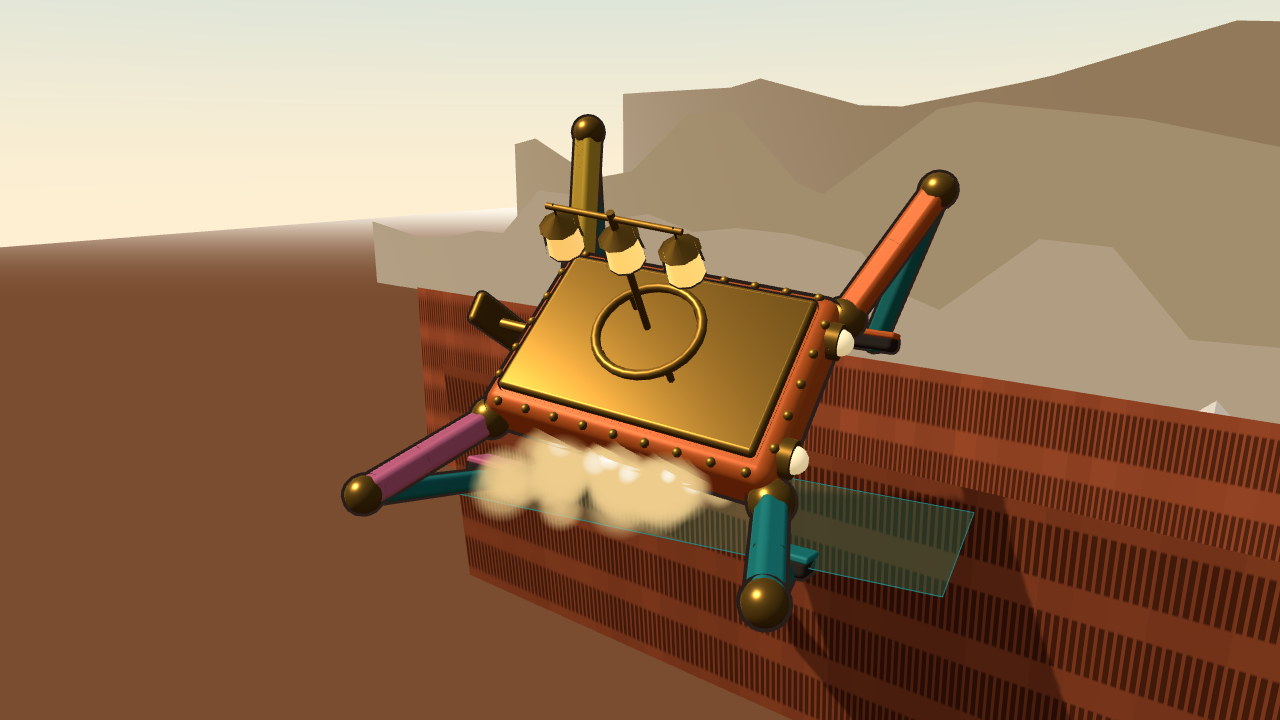
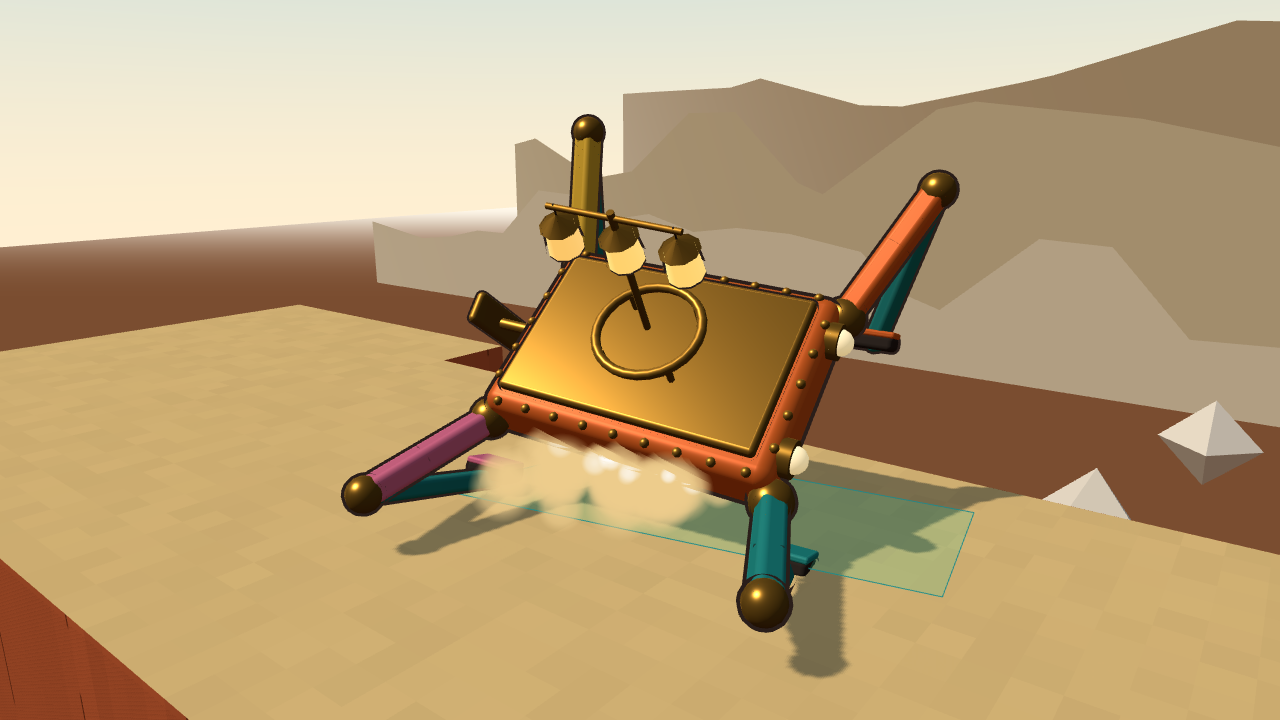
Draw the strip as paper-cut mesas, add the manifest, badges and store art

diff --git a/src/render/terrain3d.js b/src/render/terrain3d.js
@@ -1,5 +1,7 @@
-// The course as clay and paper-cut mesas: a flat-shaded height-field mesh in 40 m chunks with a
-// procedural pattern per surface, painted checkpoint stripes, a goal arch and a water plane.
+// The course as clay and paper-cut mesas. Every ground sample of the height field is a flat
+// 0.5 m top with vertical walls wherever a neighbour is lower (a terrace, a stone's rim, the
+// edge of the strip), in 40 m chunks with a pattern per surface, painted checkpoint stripes,
+// a goal arch, the canyon floor and a water plane for the tides.
 import * as THREE from 'three';
 import { S } from '../sim/constants.js';
 import { CELL, HALF_W, NZ, VOID_DEPTH } from '../sim/terrain.js';
@@ -14,29 +16,29 @@ const SURF_COLOR = {
   [S.GRATE]: new THREE.Color(PALETTE.metal),
   [S.SPRING]: new THREE.Color(PALETTE.spring),
   [S.LAVA]: new THREE.Color(PALETTE.lava),
-  [S.VOID]: new THREE.Color(0x3a2a24),
   [S.PLATFORM]: new THREE.Color(PALETTE.metal),
-  [S.CRUMBLE]: new THREE.Color(PALETTE.crumble),
   [S.CONVEYOR]: new THREE.Color(0x5a6168),
   [S.SHORE]: new THREE.Color(PALETTE.shore),
   [S.STONE]: new THREE.Color(PALETTE.stone),
 };
 const WALL = new THREE.Color(PALETTE.terracotta);
+const LAVA_WALL = new THREE.Color(0x6b2a1a);
 const tmpC = new THREE.Color();
+const HALF = CELL / 2;
+const TERRACE = 0.6; // a drop this big is a paper-cut step; less is a slope
 
-/** Build the course's static meshes. Returns a group plus per-frame hooks. */
 export function buildTerrain(course, quality) {
   const group = new THREE.Group();
-  const t = course.terrain;
   const tex = makeSurfaceTexture();
-  const mat = new THREE.MeshLambertMaterial({ vertexColors: true, map: tex, flatShading: true });
+  const mat = new THREE.MeshLambertMaterial({ vertexColors: true, map: tex, flatShading: true, side: THREE.DoubleSide });
   const chunks = [];
   const n = Math.ceil(course.length / CHUNK);
   for (let c = 0; c < n; c++) {
     const geo = chunkGeometry(course, c * CHUNK, Math.min(course.length, (c + 1) * CHUNK));
+    if (!geo) continue;
     const mesh = new THREE.Mesh(geo, mat);
     mesh.receiveShadow = quality !== 'low';
-    mesh.castShadow = false;
+    mesh.castShadow = quality === 'high';
     group.add(mesh);
     chunks.push(mesh);
   }
@@ -45,12 +47,10 @@ export function buildTerrain(course, quality) {
   floorGeo.rotateX(-Math.PI / 2);
   const floor = new THREE.Mesh(floorGeo, new THREE.MeshLambertMaterial({ color: 0x8a5a3c }));
   floor.position.set(course.length / 2, VOID_DEPTH - 1, 0);
-  floor.receiveShadow = false;
   group.add(floor);
   // Checkpoint arches and the goal.
   for (const cp of course.checkpoints) group.add(makeArch(cp.x, cp.z, cp.y, false));
   group.add(makeArch(course.goalX, 0, elevAt(course, course.goalX, 0), true));
-  // Water (tides) if the course has a shore.
   let water = null;
   if (course.water) {
     const wg = new THREE.PlaneGeometry(course.length + 40, 60, 1, 1);
@@ -68,8 +68,9 @@ export function buildTerrain(course, quality) {
       for (const m of chunks) m.geometry.dispose();
       mat.dispose();
       tex.dispose();
+      floorGeo.dispose();
       group.traverse((o) => {
-        if (o.geometry && !chunks.includes(o)) o.geometry.dispose();
+        if (o.geometry && !chunks.includes(o) && o !== floor) o.geometry.dispose();
       });
     },
   };
@@ -82,124 +83,98 @@ function elevAt(course, x, z) {
   return t.h[ix * t.nz + iz];
 }
 
-/** Non-indexed, per-cell colours and tile UVs: flat shading and a pattern per surface. */
+/** A growable triangle list. */
+function makeBuffer() {
+  const b = { pos: [], col: [], uv: [] };
+  b.push = (x, y, z, c, u, v) => {
+    b.pos.push(x, y, z);
+    b.col.push(c.r, c.g, c.b);
+    b.uv.push(u, v);
+  };
+  return b;
+}
+
+/** Cell-centred samples: a flat top per ground sample, walls down to lower neighbours. */
 function chunkGeometry(course, x0, x1) {
   const t = course.terrain;
   const ix0 = Math.round(x0 / CELL);
-  const ix1 = Math.min(t.nx - 1, Math.round(x1 / CELL));
-  const cells = (ix1 - ix0) * (NZ - 1);
-  const pos = new Float32Array(cells * 18);
-  const col = new Float32Array(cells * 18);
-  const uv = new Float32Array(cells * 12);
-  let p = 0;
-  let u = 0;
-  const seed = course.terrain.nx;
+  const ix1 = Math.min(t.nx, Math.round(x1 / CELL));
+  const b = makeBuffer();
+  const seed = t.nx;
+  const ground = (ix, iz) => {
+    if (ix < 0 || iz < 0 || ix >= t.nx || iz >= t.nz) return VOID_DEPTH - 1;
+    const i = ix * t.nz + iz;
+    const s = t.s[i];
+    if (s === S.VOID || s === S.CRUMBLE) return VOID_DEPTH - 1;
+    return t.h[i];
+  };
   for (let ix = ix0; ix < ix1; ix++) {
-    for (let iz = 0; iz < NZ - 1; iz++) {
-      const i00 = ix * t.nz + iz;
-      const i10 = i00 + t.nz;
-      const i01 = i00 + 1;
-      const i11 = i10 + 1;
-      let s = t.s[i00];
-      let h00 = t.h[i00];
-      let h10 = t.h[i10];
-      let h01 = t.h[i01];
-      let h11 = t.h[i11];
-      // Crumbling slabs are separate meshes: the ground under them is the pit.
-      if (s === S.CRUMBLE) {
-        s = S.VOID;
-        h00 = h10 = h01 = h11 = VOID_DEPTH;
-      }
-      // the cell's own surface decides its colour; a step down to a pit is painted as a wall
-      const base = SURF_COLOR[s] ?? SURF_COLOR[S.CLAY];
+    for (let iz = 0; iz < NZ; iz++) {
+      const i = ix * t.nz + iz;
+      const s = t.s[i];
+      if (s === S.VOID || s === S.CRUMBLE) continue;
+      const h = t.h[i];
       const x = ix * CELL;
       const z = iz * CELL - HALF_W;
-      const drop = Math.max(h00, h10, h01, h11) - Math.min(h00, h10, h01, h11);
-      const wall = drop > 1.2;
-      tmpC.copy(wall ? WALL : base);
-      // subtle hand-painted variation
+      const base = SURF_COLOR[s] ?? SURF_COLOR[S.CLAY];
       const v = ((Math.sin(ix * 12.9898 + iz * 78.233 + seed) * 43758.5453) % 1 + 1) % 1;
-      const k = 0.92 + v * 0.14;
-      if (s === S.VOID) tmpC.multiplyScalar(0.55 + v * 0.1);
-      else tmpC.multiplyScalar(k);
-      const tile = wall ? 15 : Math.min(15, s);
+      tmpC.copy(base).multiplyScalar(0.95 + v * 0.08);
+      const tile = Math.min(14, s);
       const tu = (tile % 4) / 4;
       const tv = Math.floor(tile / 4) / 4;
-      // two triangles: (x,z0) (x+1,z0) (x+1,z1) and (x,z0) (x+1,z1) (x,z1)
-      const quad = [
-        [x, h00, z, tu, tv],
-        [x + CELL, h10, z, tu + 0.25, tv],
-        [x + CELL, h11, z + CELL, tu + 0.25, tv + 0.25],
-        [x, h00, z, tu, tv],
-        [x + CELL, h11, z + CELL, tu + 0.25, tv + 0.25],
-        [x, h01, z + CELL, tu, tv + 0.25],
+      // Corners blend with gently different neighbours (smooth hills) and stay flat at a terrace or a rim.
+      const corner = (dx, dz) => {
+        const a = ground(ix, iz);
+        const bb = ground(ix + dx, iz);
+        const c = ground(ix, iz + dz);
+        const d = ground(ix + dx, iz + dz);
+        const lo = Math.min(a, bb, c, d);
+        const hi = Math.max(a, bb, c, d);
+        if (lo <= VOID_DEPTH || hi - lo > TERRACE) return h;
+        return (a + bb + c + d) / 4;
+      };
+      const hmm = corner(-1, -1);
+      const hpm = corner(1, -1);
+      const hpp = corner(1, 1);
+      const hmp = corner(-1, 1);
+      // top (counter-clockwise seen from above)
+      b.push(x - HALF, hmm, z - HALF, tmpC, tu, tv);
+      b.push(x + HALF, hpp, z + HALF, tmpC, tu + 0.25, tv + 0.25);
+      b.push(x + HALF, hpm, z - HALF, tmpC, tu + 0.25, tv);
+      b.push(x - HALF, hmm, z - HALF, tmpC, tu, tv);
+      b.push(x - HALF, hmp, z + HALF, tmpC, tu, tv + 0.25);
+      b.push(x + HALF, hpp, z + HALF, tmpC, tu + 0.25, tv + 0.25);
+      // walls toward neighbours that are a terrace lower or missing
+      const wallColor = s === S.LAVA ? LAVA_WALL : WALL;
+      const sides = [
+        [ix + 1, iz, x + HALF, z - HALF, x + HALF, z + HALF, hpm, hpp],
+        [ix - 1, iz, x - HALF, z + HALF, x - HALF, z - HALF, hmp, hmm],
+        [ix, iz + 1, x + HALF, z + HALF, x - HALF, z + HALF, hpp, hmp],
+        [ix, iz - 1, x - HALF, z - HALF, x + HALF, z - HALF, hmm, hpm],
       ];
-      for (const [vx, vy, vz, a, b] of quad) {
-        pos[p] = vx;
-        pos[p + 1] = vy;
-        pos[p + 2] = vz;
-        col[p] = tmpC.r;
-        col[p + 1] = tmpC.g;
-        col[p + 2] = tmpC.b;
-        p += 3;
-        uv[u] = a;
-        uv[u + 1] = b;
-        u += 2;
+      for (const [nx, nz, ax, az, bx, bz, ha, hb] of sides) {
+        const nh = ground(nx, nz);
+        if (nh > VOID_DEPTH && h - nh <= TERRACE) continue;
+        const bottom = Math.max(VOID_DEPTH - 1, nh);
+        const shade = 0.86 + v * 0.14;
+        tmpC.copy(wallColor).multiplyScalar(shade);
+        const wv = (hh) => 0.75 + 0.02 + 0.21 * Math.max(0, Math.min(1, (hh - (VOID_DEPTH - 1)) / 8));
+        const wu0 = 0.75 + 0.02 + 0.21 * ((((ax + az) / 3) % 1) + 1) % 1;
+        const wu1 = wu0 + 0.1;
+        b.push(ax, ha, az, tmpC, wu0, wv(ha));
+        b.push(ax, bottom, az, tmpC, wu0, wv(bottom));
+        b.push(bx, bottom, bz, tmpC, wu1, wv(bottom));
+        b.push(ax, ha, az, tmpC, wu0, wv(ha));
+        b.push(bx, bottom, bz, tmpC, wu1, wv(bottom));
+        b.push(bx, hb, bz, tmpC, wu1, wv(hb));
       }
     }
   }
-  // Skirts: the strip is a raised mesa, so both long edges drop to the canyon floor.
-  const skirtCols = ix1 - ix0;
-  const spos = new Float32Array(skirtCols * 2 * 18);
-  const scol = new Float32Array(skirtCols * 2 * 18);
-  const suv = new Float32Array(skirtCols * 2 * 12);
-  let sp = 0;
-  let su = 0;
-  for (let ix = ix0; ix < ix1; ix++) {
-    for (const side of [0, NZ - 1]) {
-      const i0 = ix * t.nz + side;
-      const i1 = i0 + t.nz;
-      const x = ix * CELL;
-      const z = side * CELL - HALF_W;
-      const top0 = t.s[i0] === S.VOID || t.s[i0] === S.CRUMBLE ? VOID_DEPTH : t.h[i0];
-      const top1 = t.s[i1] === S.VOID || t.s[i1] === S.CRUMBLE ? VOID_DEPTH : t.h[i1];
-      const v = ((Math.sin(ix * 7.13 + side * 3.1 + seed) * 43758.5453) % 1 + 1) % 1;
-      tmpC.copy(WALL).multiplyScalar(0.8 + v * 0.2);
-      const tu = 3 / 4;
-      const tv = 3 / 4;
-      const a = [x, top0, z];
-      const b = [x + CELL, top1, z];
-      const c = [x + CELL, VOID_DEPTH - 1, z];
-      const d = [x, VOID_DEPTH - 1, z];
-      const tri = side === 0 ? [a, c, b, a, d, c] : [a, b, c, a, c, d];
-      const uvs = [[tu, tv], [tu + 0.25, tv + 0.25], [tu + 0.25, tv], [tu, tv], [tu, tv + 0.25], [tu + 0.25, tv + 0.25]];
-      for (let k = 0; k < 6; k++) {
-        spos[sp] = tri[k][0];
-        spos[sp + 1] = tri[k][1];
-        spos[sp + 2] = tri[k][2];
-        scol[sp] = tmpC.r;
-        scol[sp + 1] = tmpC.g;
-        scol[sp + 2] = tmpC.b;
-        sp += 3;
-        suv[su] = uvs[k][0];
-        suv[su + 1] = uvs[k][1];
-        su += 2;
-      }
-    }
-  }
-  const allPos = new Float32Array(pos.length + spos.length);
-  allPos.set(pos);
-  allPos.set(spos, pos.length);
-  const allCol = new Float32Array(col.length + scol.length);
-  allCol.set(col);
-  allCol.set(scol, col.length);
-  const allUv = new Float32Array(uv.length + suv.length);
-  allUv.set(uv);
-  allUv.set(suv, uv.length);
+  if (!b.pos.length) return null;
   const geo = new THREE.BufferGeometry();
-  geo.setAttribute('position', new THREE.BufferAttribute(allPos, 3));
-  geo.setAttribute('color', new THREE.BufferAttribute(allCol, 3));
-  geo.setAttribute('uv', new THREE.BufferAttribute(allUv, 2));
+  geo.setAttribute('position', new THREE.BufferAttribute(new Float32Array(b.pos), 3));
+  geo.setAttribute('color', new THREE.BufferAttribute(new Float32Array(b.col), 3));
+  geo.setAttribute('uv', new THREE.BufferAttribute(new Float32Array(b.uv), 2));
   geo.computeVertexNormals();
   geo.computeBoundingSphere();
   return geo;
@@ -210,24 +185,23 @@ function makeArch(x, z, y, goal) {
   const g = new THREE.Group();
   const post = new THREE.BoxGeometry(0.5, 5.2, 0.5);
   const postMat = new THREE.MeshLambertMaterial({ color: goal ? PALETTE.orange : PALETTE.brass });
+  const inkMat = new THREE.MeshLambertMaterial({ color: PALETTE.ink });
   for (const side of [-1, 1]) {
     const m = new THREE.Mesh(post, postMat);
     m.position.set(0, 2.6, side * 6.5);
     m.castShadow = true;
     g.add(m);
-    // stripes
     for (let k = 0; k < 5; k++) {
-      const band = new THREE.Mesh(new THREE.BoxGeometry(0.56, 0.4, 0.56), new THREE.MeshLambertMaterial({ color: PALETTE.ink }));
+      const band = new THREE.Mesh(new THREE.BoxGeometry(0.56, 0.4, 0.56), inkMat);
       band.position.set(0, 0.6 + k * 1.0, side * 6.5);
       g.add(band);
     }
   }
-  const lintel = new THREE.Mesh(new THREE.BoxGeometry(0.6, 0.7, 13.6), new THREE.MeshLambertMaterial({ color: goal ? PALETTE.orange : PALETTE.brass }));
+  const lintel = new THREE.Mesh(new THREE.BoxGeometry(0.6, 0.7, 13.6), postMat);
   lintel.position.set(0, 5.5, 0);
   lintel.castShadow = true;
   g.add(lintel);
   if (goal) {
-    // a paper banner with painted triangles
     const banner = new THREE.Mesh(new THREE.BoxGeometry(0.2, 1.6, 12.8), new THREE.MeshLambertMaterial({ color: PALETTE.cream }));
     banner.position.set(0, 4.2, 0);
     g.add(banner);
@@ -239,7 +213,6 @@ function makeArch(x, z, y, goal) {
       g.add(tri);
     }
   }
-  // stripes painted on the ground across the gate
   const stripe = new THREE.Mesh(new THREE.PlaneGeometry(0.8, 13), new THREE.MeshBasicMaterial({ color: goal ? PALETTE.orange : PALETTE.ink, transparent: true, opacity: 0.55, depthWrite: false }));
   stripe.rotation.x = -Math.PI / 2;
   stripe.position.set(0, 0.03, 0);

diff --git a/src/render/textures.js b/src/render/textures.js
@@ -148,12 +148,17 @@ export function makeSurfaceTexture() {
     g.strokeStyle = 'rgba(0,0,0,0.25)';
     g.strokeRect(16, 16, s - 32, s - 32);
   });
-  // 15: cliff wall: horizontal paper layers
+  // 15: cliff wall: three broad paper layers, darker toward the bottom (v=0 is the bottom)
   at(15, (s) => {
-    g.fillStyle = 'rgba(0,0,0,0.18)';
-    for (let k = 0; k < 5; k++) g.fillRect(0, k * (s / 5) + 6, s, 5);
-    g.fillStyle = 'rgba(255,255,255,0.12)';
-    for (let k = 0; k < 5; k++) g.fillRect(0, k * (s / 5), s, 3);
+    const bands = [[0, 0.3, 'rgba(0,0,0,0.3)'], [0.3, 0.62, 'rgba(0,0,0,0.14)'], [0.62, 0.9, 'rgba(0,0,0,0.02)'], [0.9, 1, 'rgba(255,255,255,0.18)']];
+    for (const [a, b, c] of bands) {
+      g.fillStyle = c;
+      g.fillRect(0, s * (1 - b), s, s * (b - a));
+    }
+    g.fillStyle = 'rgba(255,255,255,0.14)';
+    g.fillRect(0, s * (1 - 0.3), s, 3);
+    g.fillRect(0, s * (1 - 0.62), s, 3);
+    g.fillRect(0, s * (1 - 0.9), s, 3);
   });
   const tex = new THREE.CanvasTexture(c);
   tex.colorSpace = THREE.SRGBColorSpace;

diff --git a/src/app/workshop.js b/src/app/workshop.js
@@ -87,9 +87,9 @@ export function createWorkshopScene(gfx, save) {
       view.pitch = Math.sin(view.t * 0.8) * 0.01;
       walker.update(view, dt, view.t);
       walker.key.rotation.x += dt * 1.2;
-      const radius = screen === 'title' ? 15 : 13;
-      g.camera.position.set(Math.cos(angle) * radius, 6.5 + Math.sin(view.t * 0.5) * 0.3, Math.sin(angle) * radius);
-      g.camera.lookAt(0, 1.2, 0);
+      const radius = screen === 'title' ? 11 : 10;
+      g.camera.position.set(Math.cos(angle) * radius, 4.8 + Math.sin(view.t * 0.5) * 0.3, Math.sin(angle) * radius);
+      g.camera.lookAt(0, 1.3, 0);
       g.followSun(0, 0);
       g.sky.follow(g.camera.position.x, 0, g.camera.position.z);
     },

diff --git a/src/poster.js b/src/poster.js
@@ -143,8 +143,8 @@ const SCENES = {
     ws.setLook(save);
     gfx.setBiome(0);
     for (let i = 0; i < 20; i++) ws.update(1 / 30, gfx, 'workshop');
-    gfx.camera.position.set(11.5, 5.5, 9);
-    gfx.camera.lookAt(0, 1.2, 0);
+    gfx.camera.position.set(7.5, 4.2, 6.5);
+    gfx.camera.lookAt(0, 1.3, 0);
     gfx.camera.fov = 44;
     gfx.camera.updateProjectionMatrix();
     gfx.render();

diff --git a/src/sim/terrain.js b/src/sim/terrain.js
@@ -20,6 +20,9 @@ export function createTerrain(length) {
     f: new Int16Array(n),
   };
   t.f.fill(-1);
+  // The strip is a chasm until a template paints ground on it: nothing walkable appears by accident.
+  t.s.fill(S.VOID);
+  t.h.fill(VOID_DEPTH);
   return t;
 }
 
